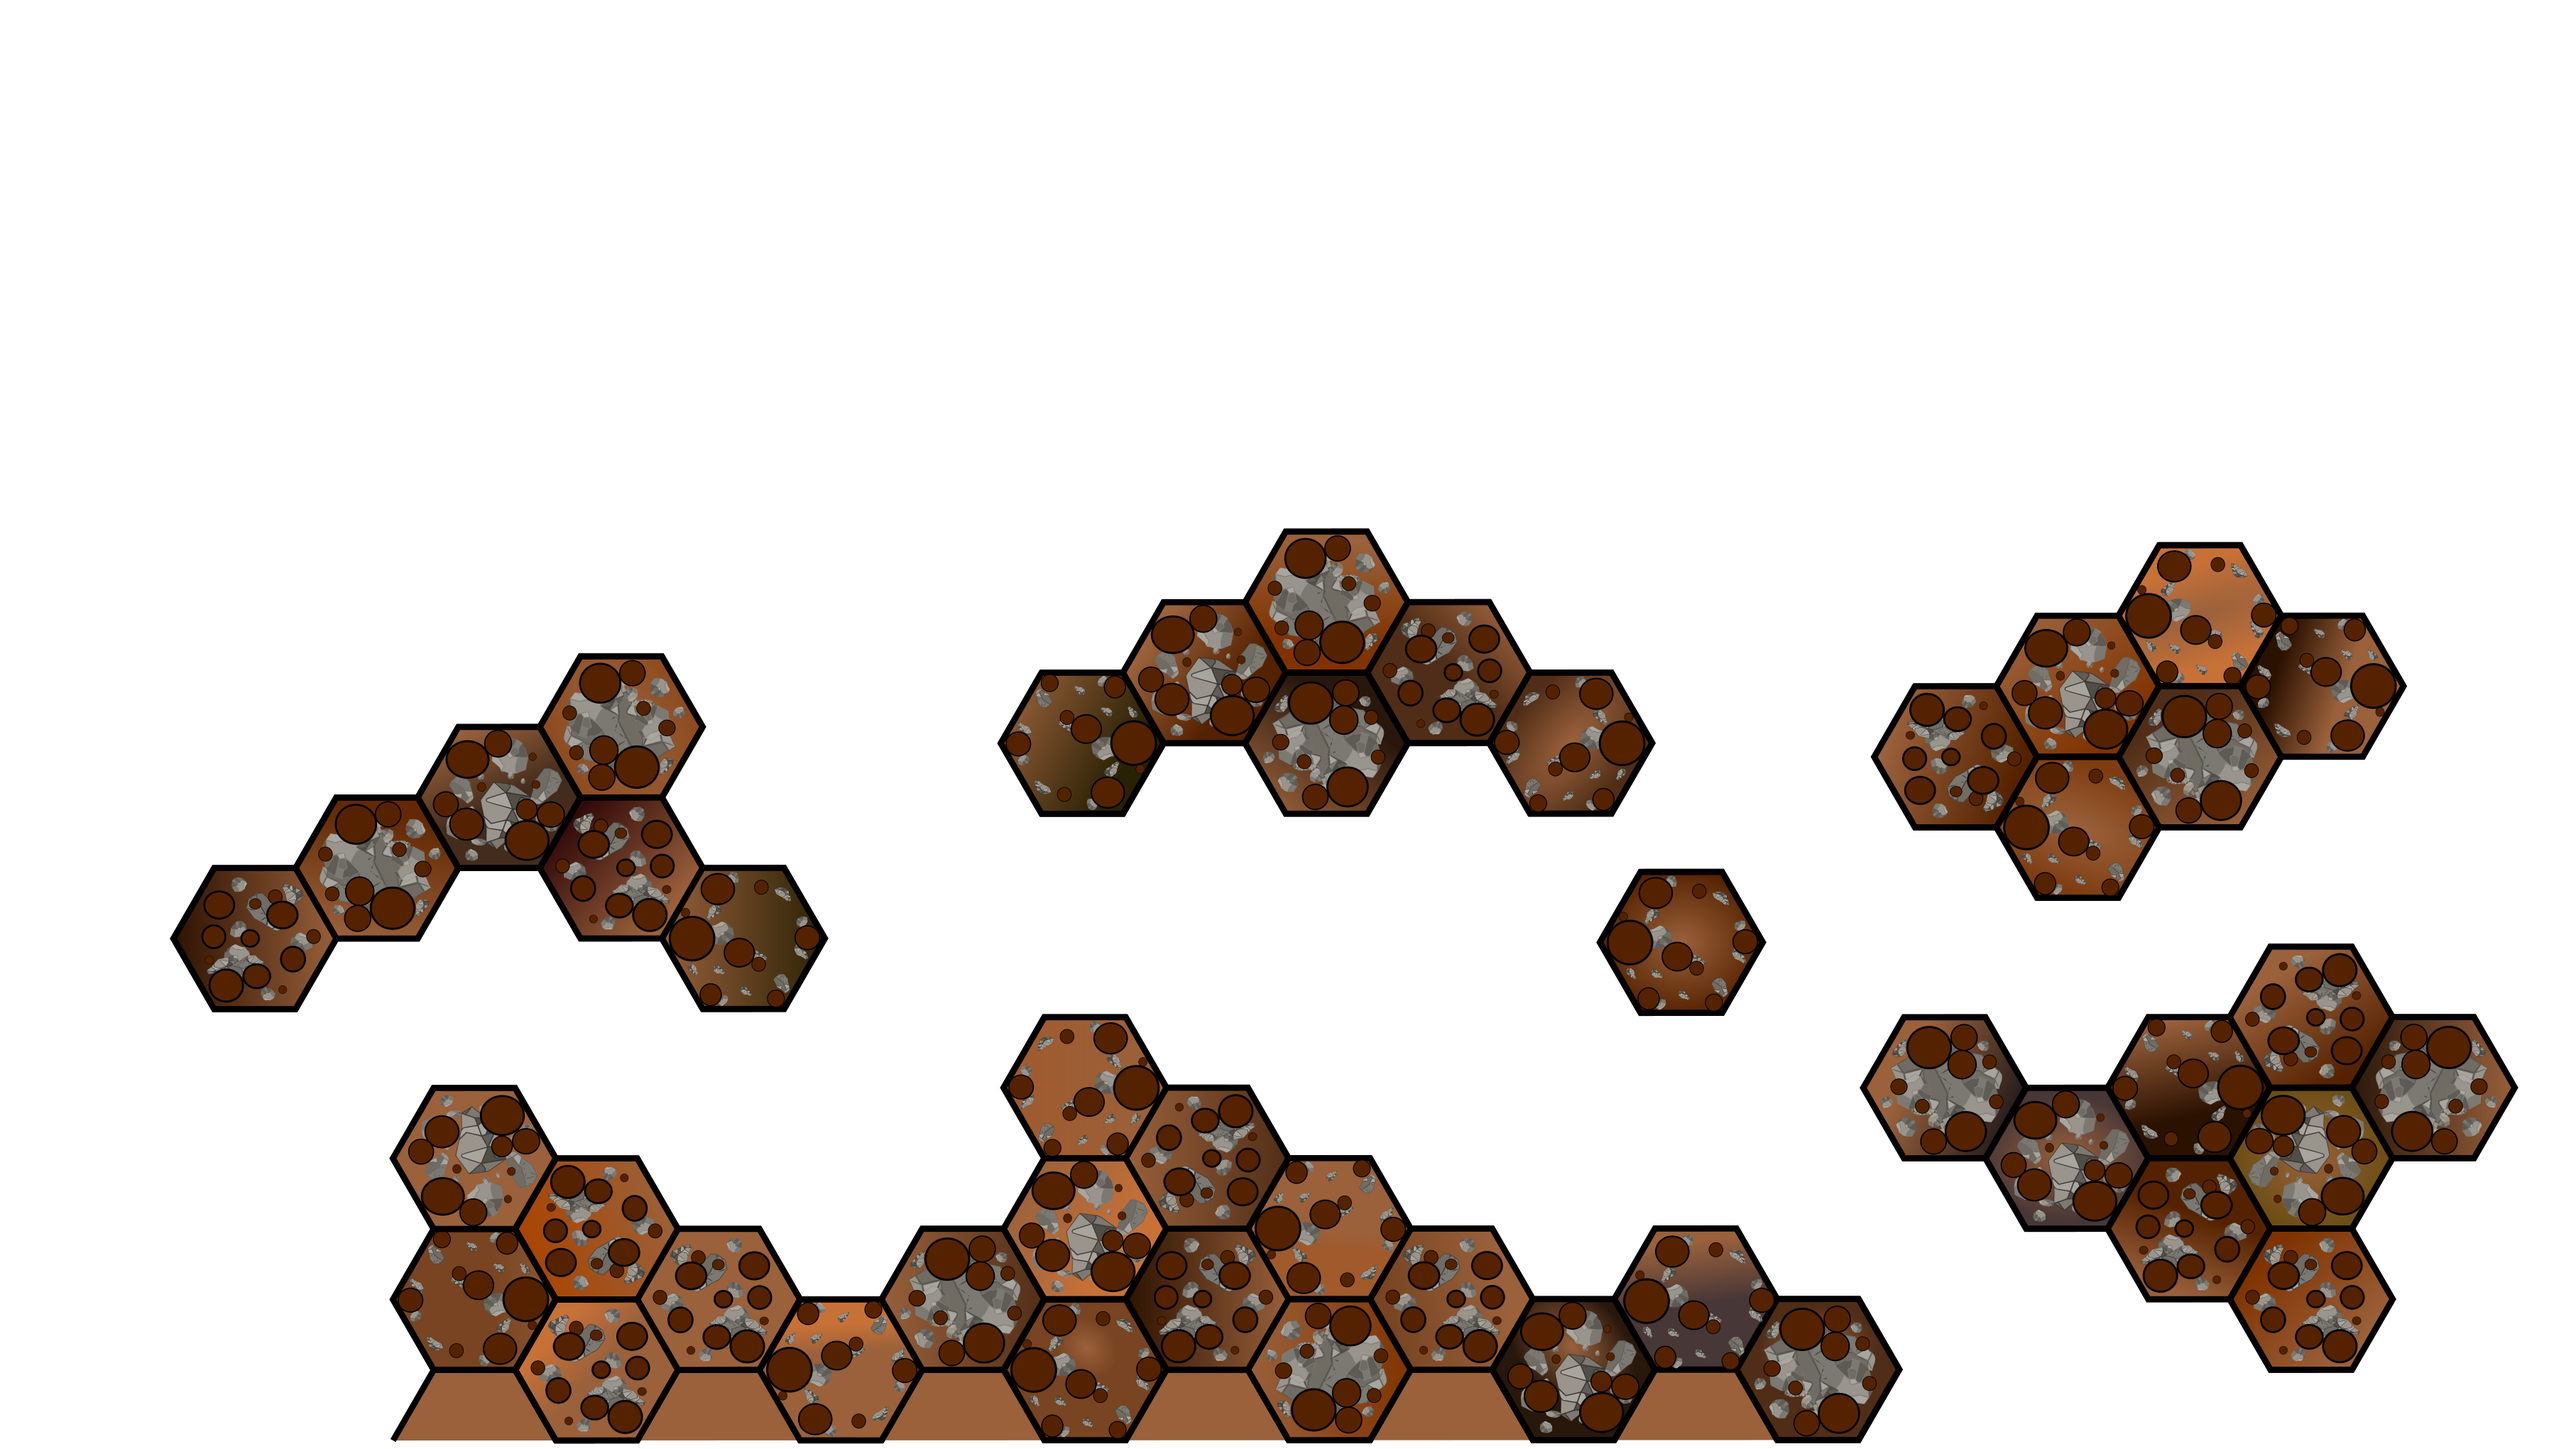
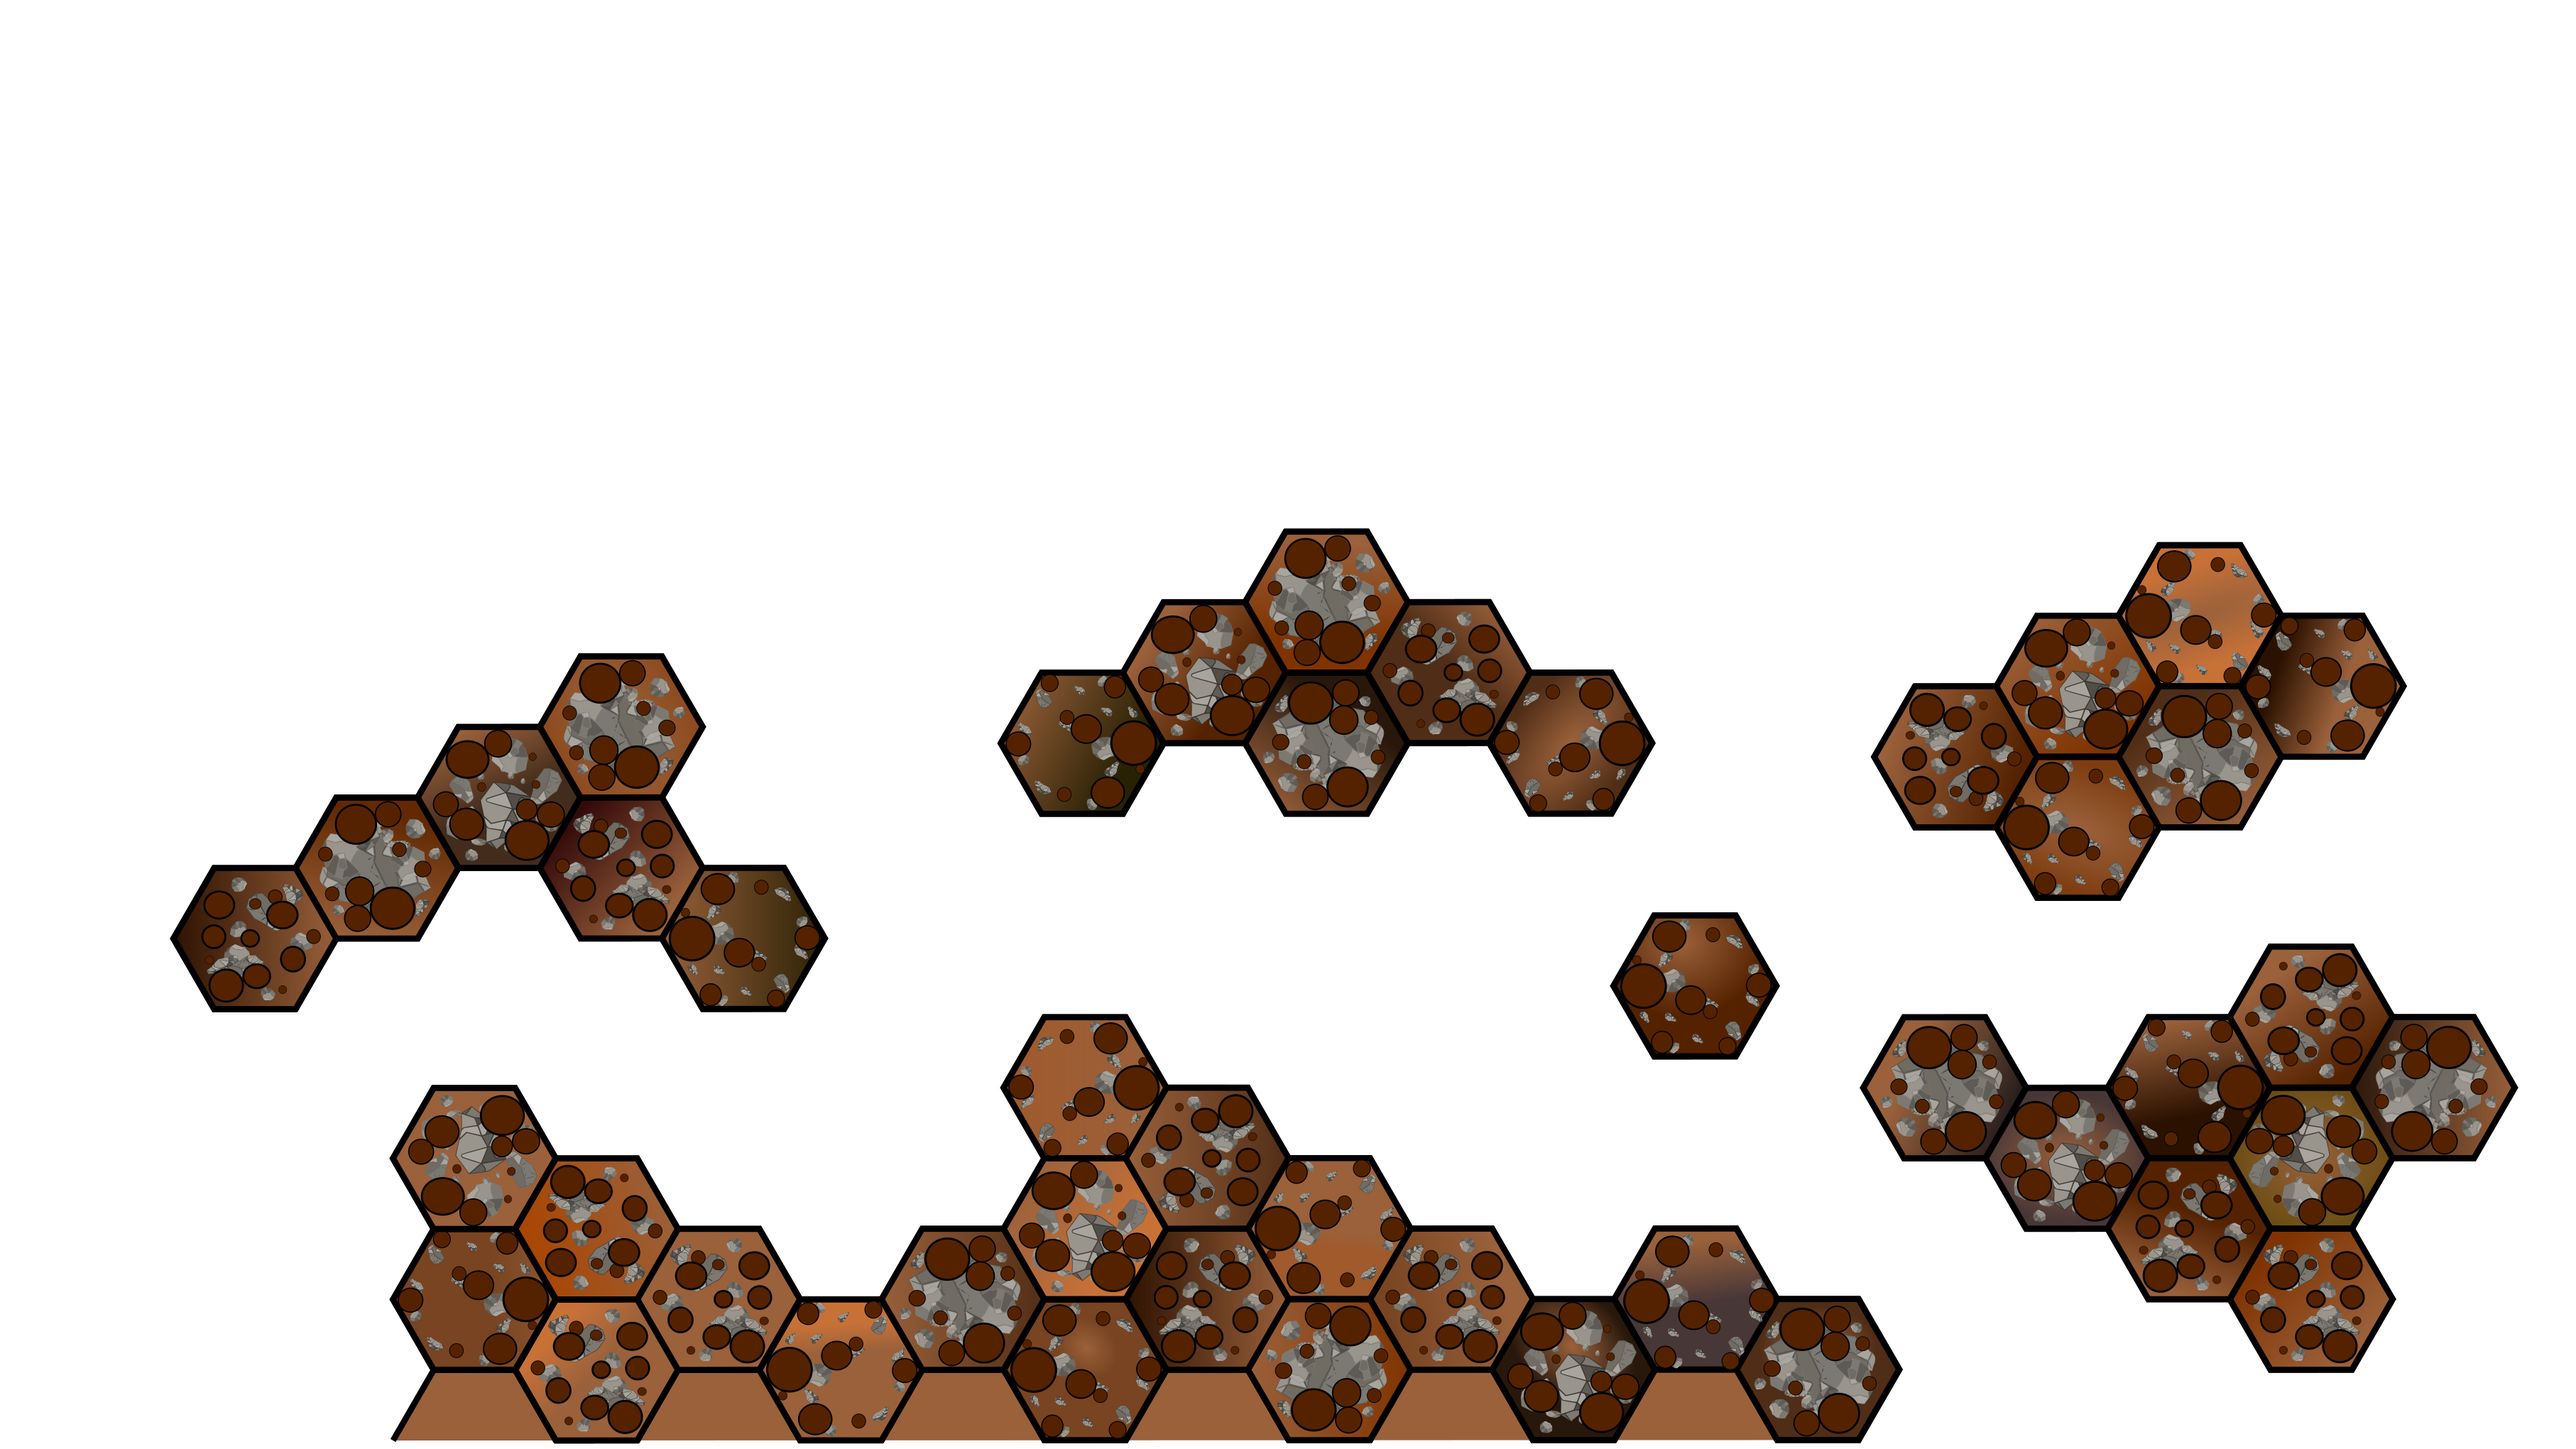
fixed hitbox

Changed region(s): [[0.6229, 0.5865, 0.6852, 0.7408]]

diff --git a/BasicGraphicsUtilities/main.cpp b/BasicGraphicsUtilities/main.cpp
@@ -314,12 +314,12 @@ int main() {
 
 
 	std::vector<std::pair<float, float>> vertices_hitbox24{
-		{1571.0f, 917.0f},
-		{1555.83f, 890.0f},
-		{1571.0f, 864.0f},
-		{1601.34f, 864.0f},
-		{1616.51f, 890.0f},
-		{1601.34f, 917.0f}
+		{1575.17f, 934.0f},
+		{1560.0f, 907.0f},
+		{1575.17f, 880.0f},
+		{1606.51f, 880.0f},
+		{1621.68f, 907.0f},
+		{1606.17f, 934.0f}
 
 	};
 
@@ -696,6 +696,7 @@ int main() {
 		//Worms
 
 		wormsWindow.draw(obj);
+		wormsWindow.draw(*terainqueue[23]);
 
 		wormsWindow.draw(water); //water has to be drawn after the worms
 		//wormsWindow.draw(bum);
